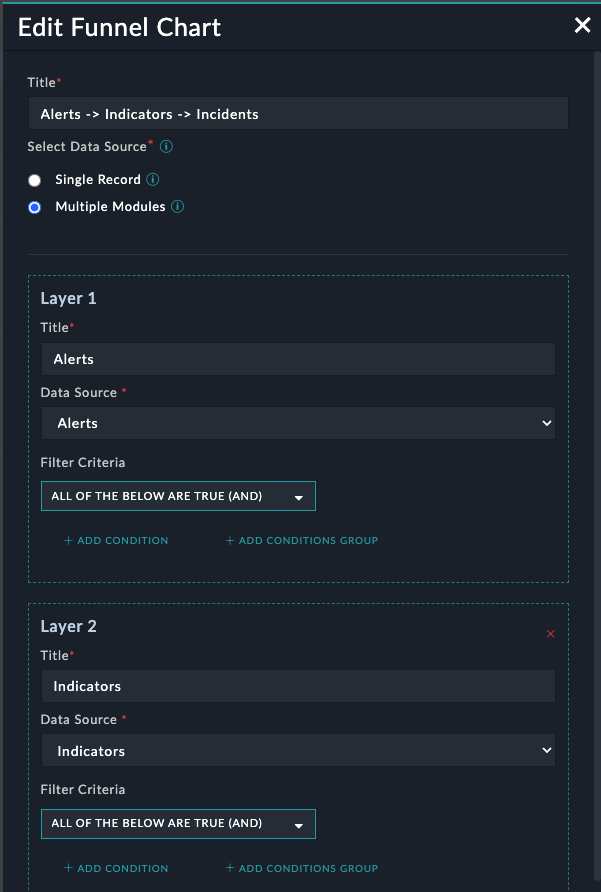
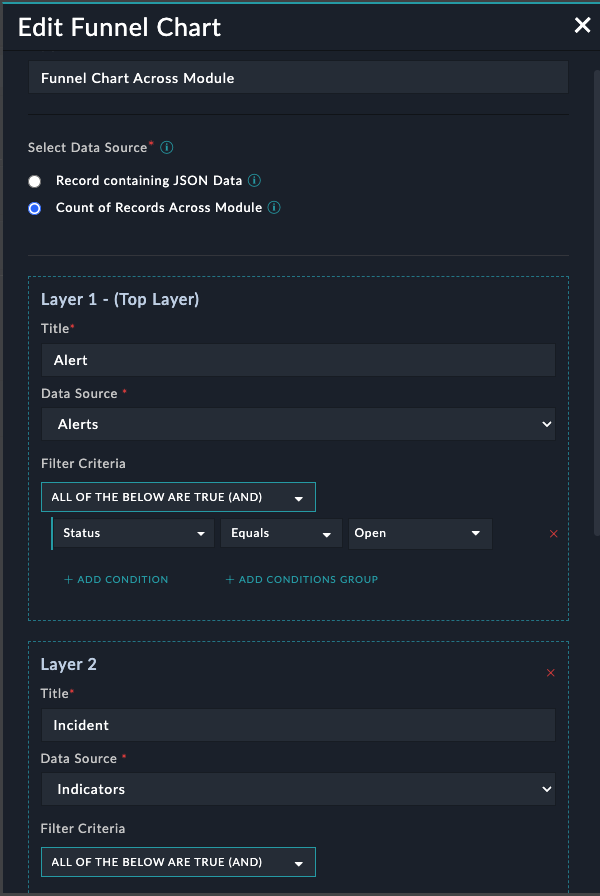
Release/1.0.1 (#16)

diff --git a/widget/edit.html b/widget/edit.html
@@ -10,9 +10,10 @@
         <div class="form-group"
             data-ng-class="{ 'has-error': editFunnelWidgetForm.title.$invalid && editFunnelWidgetForm.title.$touched }">
             <label for="title" class="control-label">Title<span class="text-danger">*</span></label> <input id="title"
-                name="title" type="text" data-ng-model="config.title" class="form-control" />
+                name="title" type="text" data-ng-model="config.title" class="form-control" required/>
             <div data-cs-messages="editFunnelWidgetForm.title"></div>
         </div>
+        <hr>
         <div
             data-ng-class="{ 'has-error': editFunnelWidgetForm.funnelModuleType.$invalid && editFunnelWidgetForm.funnelModuleType.$touched }">
             <label for="funnelModuleType" class="control-label">Select Data Source</label><span class="text-danger">*
@@ -28,25 +29,23 @@
                 <div class="col-md-6 padding-right-0">
                     <div class="radio">
                         <label><input id="JsonField" name="JsonField" type="radio"
-                                data-ng-model="config.funnelModuleType" data-ng-change="onChangeModuleType()" value="Single Module">&nbsp;&nbsp;Single Record</label>
+                                data-ng-model="config.funnelModuleType" data-ng-change="onChangeModuleType()" value="Single Module">&nbsp;&nbsp;Record Containing JSON Data</label>
                                 <span data-uib-tooltip="It allows you to select single record that contains a JSON object."
                                     data-tooltip-append-to-body="true"><i class="icon icon-information font-Size-13"></i></span>
                     </div>
                     <div class="radio">
                         <label><input id="accrossModules" name="accrossModules" type="radio"
-                                data-ng-model="config.funnelModuleType" data-ng-change="onChangeModuleType()" value="Across Modules">&nbsp;&nbsp;Multiple Modules</label>
+                                data-ng-model="config.funnelModuleType" data-ng-change="onChangeModuleType()" value="Across Modules">&nbsp;&nbsp;Count of Records Across Module</label>
                                 <span data-uib-tooltip="It allows you to get the count of records of the selected modules"
                                 data-tooltip-append-to-body="true"><i class="icon icon-information font-Size-13"></i></span>
                     </div>
                 </div>
             </div>
-
             <!-- Radio Button End -->
-
         </div>
         <!-- Show this block only when funnelModuleType value is 1-->
         <div data-ng-if="config.funnelModuleType == 'Single Module'">
-            <div class="form-group" data-ng-if="modules"
+            <div class="form-group" data-ng-if="jsonObjModuleList"
                 data-ng-class="{ 'has-error': editFunnelWidgetForm.customModule.$invalid && editFunnelWidgetForm.customModule.$touched }">
                 <label for="customModule" class="control-label">Data Source
                     <span class="text-danger">*</span>
@@ -54,7 +53,7 @@
                 <span data-uib-tooltip="Select the Module which has JSON data"
                     data-tooltip-append-to-body="true"><i class="icon icon-information font-Size-13"></i></span>
                 <select name="customModule" id="customModule" class="form-control"
-                    data-ng-options="module.type as module.name for module in modules"
+                    data-ng-options="module.type as module.name for module in jsonObjModuleList"
                     data-ng-model="config.customModule"
                     data-ng-change="loadAttributesForCustomModule(config.customModule)" required>
                     <option value="">Select an Option</option>
@@ -76,15 +75,20 @@
                         </div>
                     </div>
 
-                    <label class="control-label">Select Field
-                        <span class="text-danger">*</span>
-                    </label>
-                    <span data-uib-tooltip="Select the Field which has the data, only json type fields will be available in the dropdown"
-                        data-tooltip-append-to-body="true"><i class="icon icon-information font-Size-13"></i></span>
-                    <select class="form-control" data-ng-options="field.name as field.title for field in objectFields"
-                        data-ng-model="config.customModuleField" required>
-                        <option value="">Select an Option</option>
-                    </select>
+                    <div id="customModuleField" 
+                    data-ng-class="{ 'has-error': editFunnelWidgetForm.customModuleField.$invalid && editFunnelWidgetForm.customModuleField.$touched }" >
+                        <label class="control-label" >Select Field
+                            <span class="text-danger">*</span>
+                        </label>
+                        <span data-uib-tooltip="Select the Field which has the data, only json type fields will be available in the dropdown"
+                            data-tooltip-append-to-body="true"><i class="icon icon-information font-Size-13"></i></span>
+                        <select class="form-control"  name="customModuleField" id="customModuleField"
+                            data-ng-options="field.name as field.title for field in objectFields"
+                            data-ng-model="config.customModuleField" required>
+                            <option value="">Select an Option</option>
+                        </select>
+                    </div>
+
                 </div>
                 <div class="alert-danger alert margin-bottom-xlg margin-top-md" data-ng-if="objectFields.length == 0">
                     <span>Select a module wich contains JSON field</span>
@@ -97,7 +101,7 @@
             <div class="form-group dashed-border-section" data-ng-repeat="item in config.layers"
                 style="position:relative;">
                 <div style="padding: 12px;">
-                    <h6 style="margin-top: 0px;">Layer {{$index +1}}</h6>
+                    <h6 style="margin-top: 0px;">Layer {{$index +1}}  <div class="display-inline-block" data-ng-if="$index===0">- (Top Layer)</div></h6> 
                     <div
                         data-ng-class="{ 'has-error': editFunnelWidgetForm['moduleTitle-'+$index].$invalid && editFunnelWidgetForm['moduleTitle-'+$index].$touched }">
                         <label for="moduleTitle" class="control-label">Title<span class="text-danger">*</span>

diff --git a/widget/edit.controller.js b/widget/edit.controller.js
@@ -2,11 +2,11 @@
 (function () {
   angular
     .module('cybersponse')
-    .controller('editFunnelChart100Ctrl', editFunnelChart100Ctrl);
+    .controller('editFunnelChart101Ctrl', editFunnelChart101Ctrl);
 
-  editFunnelChart100Ctrl.$inject = ['$scope', '$uibModalInstance', 'config', 'appModulesService', '_', 'CRUD_HUB', 'Entity'];
+  editFunnelChart101Ctrl.$inject = ['$scope', '$uibModalInstance', 'config', 'appModulesService', '_', 'CRUD_HUB', 'Entity', '$q', 'modelMetadatasService'];
 
-  function editFunnelChart100Ctrl($scope, $uibModalInstance, config, appModulesService, _, CRUD_HUB, Entity) {
+  function editFunnelChart101Ctrl($scope, $uibModalInstance, config, appModulesService, _, CRUD_HUB, Entity, $q, modelMetadatasService) {
     $scope.cancel = cancel;
     $scope.save = save;
     $scope.config = config;
@@ -16,6 +16,7 @@
     $scope.removeLayer = removeLayer;
     $scope.onChangeModuleType = onChangeModuleType;
     $scope.maxlayers = false;
+    $scope.jsonObjModuleList=[];
 
     $scope.funnelModuleType = {
       type: ['Across Modules', 'Single Module']
@@ -24,6 +25,18 @@
     function init() {
       appModulesService.load(true).then(function (modules) {
         $scope.modules = modules;
+
+        //Create a list of modules with atleast one JSON field
+        modules.forEach((module, index) =>{
+          var moduleMetaData = modelMetadatasService.getMetadataByModuleType(module.type);
+          for(let fieldIndex =0; fieldIndex < moduleMetaData.attributes.length; fieldIndex++){
+            //Check If JSON field is present in the module
+            if(moduleMetaData.attributes[fieldIndex].type === "object"){
+              $scope.jsonObjModuleList.push(module);
+              break;
+            }
+          }
+        })
       })
       $scope.config.layers = $scope.config.layers ? $scope.config.layers : [{ value: undefined, title: '' }];
     }
@@ -52,7 +65,6 @@
     if ($scope.config.customModule) {
       $scope.loadAttributesForCustomModule();
     }
-
 
     function loadAttributesForCustomModule() {
       $scope.fields = [];

diff --git a/widget/view.controller.js b/widget/view.controller.js
@@ -2,11 +2,11 @@
 (function () {
   angular
     .module('cybersponse')
-    .controller('funnelChart100Ctrl', funnelChart100Ctrl);
+    .controller('funnelChart101Ctrl', funnelChart101Ctrl);
 
-  funnelChart100Ctrl.$inject = ['$scope', 'ALL_RECORDS_SIZE', 'Query', '$resource', '$q', 'API', 'PagedCollection', '$rootScope', 'dynamicVariableService'];
+  funnelChart101Ctrl.$inject = ['$scope', 'ALL_RECORDS_SIZE', 'Query', '$resource', '$q', 'API', 'PagedCollection', '$rootScope', 'dynamicVariableService'];
 
-  function funnelChart100Ctrl($scope, ALL_RECORDS_SIZE, Query, $resource, $q, API, PagedCollection, $rootScope, dynamicVariableService) {
+  function funnelChart101Ctrl($scope, ALL_RECORDS_SIZE, Query, $resource, $q, API, PagedCollection, $rootScope, dynamicVariableService) {
     $scope.color = {
       layer1: '#0598A1',
       layer2: '#20B4BD',

diff --git a/docs/setup.md b/docs/setup.md
@@ -16,7 +16,7 @@
 | Title                                    | Specify the heading or title of the visual depiction of each record node in the group. |
 | Dataset                              | Populate the records with FSR modules or a custom single module|
 
-| Single Module                            | Description                              |
+| Record containing JSON Data                           | Description                              |
 | ---------------------------------------- | ---------------------------------------- |
 | Data Source                              | Select the Custom Module to fetch the data from |
 | Filter Record                            | Assuming the entire data is in a single record add condition such that a single record of the selected module is filtered. If multiple redords are filtered witht the condition given, first record will be assumed|
@@ -25,7 +25,7 @@
 | Title                                    | Enter the title For the perticular layer to display on the widget|
 | Value                                    | Considering the data is json, add the key, the value will be displayed on the perticular layer|
 
-| Single Module                            | Description                              |
+| Count of Records Across Module                           | Description                              |
 | ---------------------------------------- | ---------------------------------------- |
 | Title                                    | Enter the title For the perticular layer to display on the widget |
 | Data Source                              | Select the module to display the record count|  

diff --git a/docs/usage.md b/docs/usage.md
@@ -5,7 +5,7 @@
 
 **Funnel Chart Widget Edit View**
 
-**1. Dataset : Single Record**
+**1. Data Source : Record containing JSON Data**
 
 Select the "Single Record" option if all the data to be rendered are in a single record of a certain field of the module.
 
@@ -54,7 +54,7 @@ This is how the data will be visible in the funnel
 Note:  If the value of a given key is not numeric then by default '0' (In this case for incident) will be displayed and user will see an error "Invalid data" hover on .
 
 
-**2. Dataset : Multiple Modules**
+**2. Data Source : Count of Records Across Module**
 
 <img src="./media/fsr-modules.png" width=50%>
 

diff --git a/README.md b/README.md
@@ -1,6 +1,6 @@
 ## Release Information
 
-- **Version**: 1.0.0
+- **Version**: 1.0.1
 
 - **Certified**: No
 
@@ -10,6 +10,7 @@
 
 - **Applicable**: Dashboards
 
+- [Release Notes](./widget/release_notes.md)
 
 ## Overview
 

diff --git a/widget/release_notes.md b/widget/release_notes.md
@@ -1,0 +1,2 @@
+# What's New
+Minor bug fix
